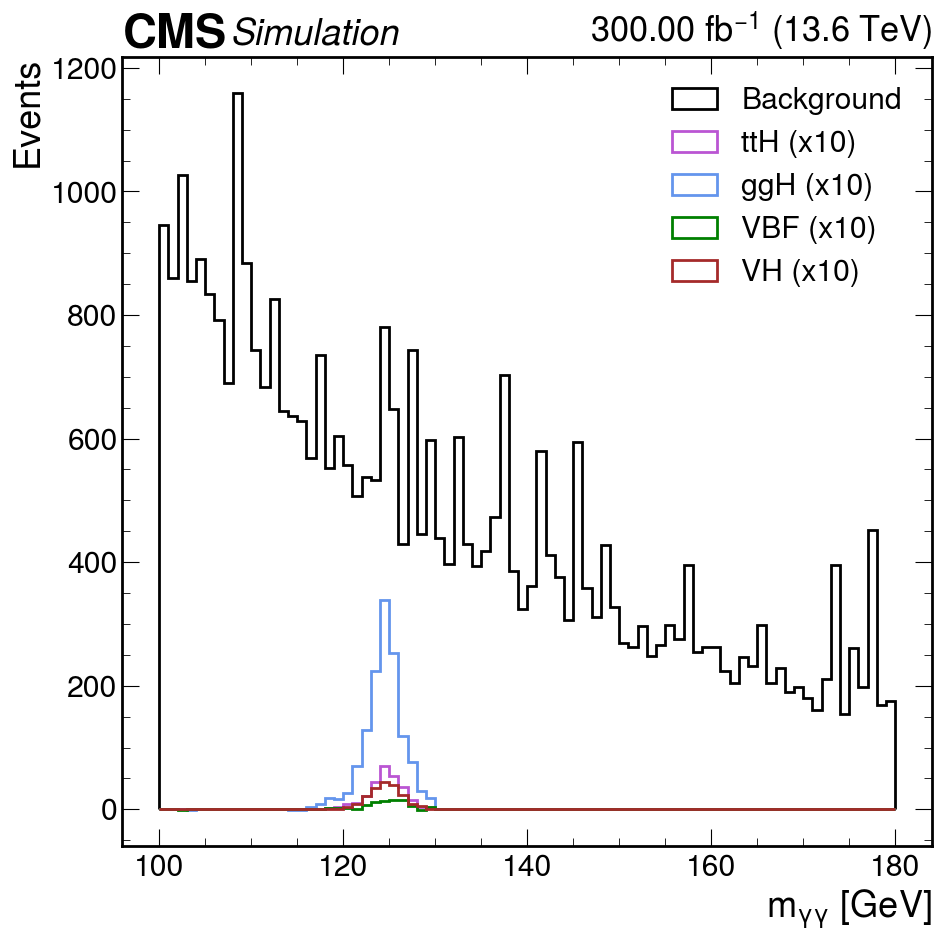
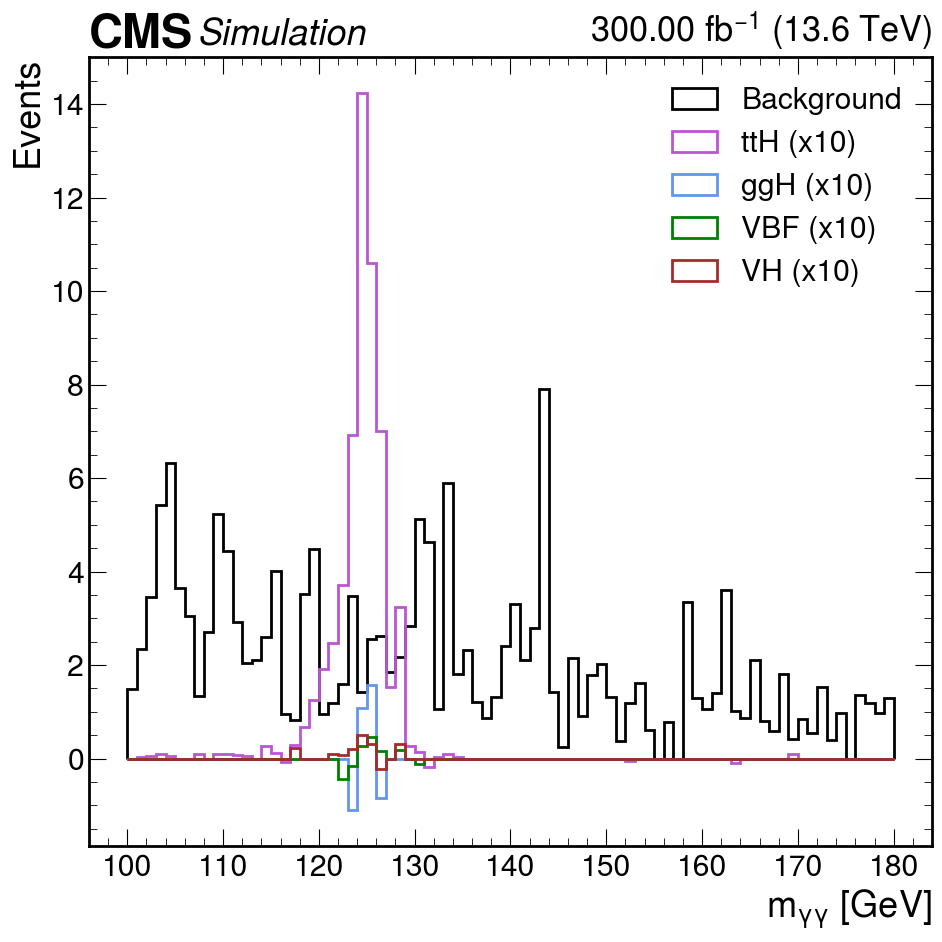
Fixed bug from last week. Added 5 categories and got NLL and Mass spectra for them.

diff --git a/simple_stat_analysis.py b/simple_stat_analysis.py
@@ -11,6 +11,7 @@ from utils import *
 # Constants
 total_lumi = 7.9804
 target_lumi = 300
+mass = 125
 
 # Processes to plot
 procs = {
@@ -22,8 +23,10 @@ procs = {
 }
 
 # Load dataframes
+
 dfs = {}
 for i, proc in enumerate(procs.keys()):
+    #if proc != "ttH": continue
     print(f" --> Loading process: {proc}")
     dfs[proc] = pd.read_parquet(f"{sample_path}/{proc}_processed_selected.parquet")
 
@@ -54,17 +57,19 @@ for i, proc in enumerate(procs.keys()):
     
     # Apply selection: separate ttH from backgrounds + other H production modes
     yield_before_sel = dfs[proc]['true_weight'].sum()
-    #mask =  dfs[proc]['HT'] > 10
+    #print("HT pre cuts:", len(dfs[proc]["HT"]))
     mask = dfs[proc]['n_jets'] >= 4
-    print("HT pre cuts:", len(dfs[proc]["HT"]))
+    mask = mask & (dfs[proc]['HT'] > 200)
+    mask = mask & (dfs[proc]['max_b_tag_score'] > 0.8)
+    mask = mask & (dfs[proc]['second_max_b_tag_score'] > 0.4)
+    #print("HT post cuts:", len(dfs[proc]["HT"][mask]))
     #mask = mask & dfs[proc]['minDeltaPhiJMET']<1
-    mask = mask & dfs[proc]['max_b_tag_score'] > 0.8
-    mask = mask & dfs[proc]['second_max_b_tag_score'] > 0.4
+    #mask = mask & dfs[proc]['delta_eta_jj']<4
     #mask = mask& dfs[proc]['j3_pt']>10
-    mask = mask & (dfs[proc]['j1_eta']<=1) & (dfs[proc]['j1_eta']>=-1)
+    #mask = mask & (dfs[proc]['j1_eta']<=1) & (dfs[proc]['j1_eta']>=-1)
     #mask = mask & dfs[proc]['delta_phi_gg']>0.9
     #mask = mask & dfs[proc]['n_leptons'] >= 1
-    #mask = mask & dfs[proc]['Muo0_pt']>10
+    #exit(0)
     
     dfs[proc] = dfs[proc][mask]
     yield_after_sel = dfs[proc]['true_weight'].sum()
@@ -74,7 +79,16 @@ for i, proc in enumerate(procs.keys()):
 
     # Categorise events: separate regions of high EFT enhancement vs low EFT enhancement
     # e.g. number of leptons
-    dfs[proc]['category'] = np.array(dfs[proc]['n_leptons'] >= 1, dtype='int')
+    conditions = [
+    (dfs[proc]['pt/mass']*mass < 60),      # Category 0: low p_T
+    (dfs[proc]['pt/mass']*mass >= 60) & (dfs[proc]['pt/mass']*mass < 120),  # Category 1: medium p_T
+    (dfs[proc]['pt/mass']*mass >= 120) & (dfs[proc]['pt/mass']*mass < 200), # Category 2: higher p_T
+    (dfs[proc]['pt/mass']*mass >= 200) & (dfs[proc]['pt/mass']*mass < 300), # Category 3: even higher p_T
+    (dfs[proc]['pt/mass']*mass >= 300)     # Category 4: highest p_T
+    ]
+    #dfs[proc]['category'] = np.array(dfs[proc]['n_leptons'] >= 1, dtype='int')
+    dfs[proc]['category'] = np.select(conditions, [0, 1, 2, 3, 4])
+    print(np.select(conditions, [0,1,2,3,4]))
     
 # Extract different cat integers
 cats_unique = []
@@ -82,7 +96,7 @@ for proc in procs.keys():
     for cat in np.unique(dfs[proc]['category']):
         if cat not in cats_unique:
             cats_unique.append(cat)
-    
+print("Categories", np.unique(dfs[proc]['category']))
 # ~~~~~~~~~~~~~~~~~~~~~~~~~~~~~~~~~~~~~~~~~~~~~~~~~~~~~~~~~~~~~~~~~~~~~~~~~~~~~~~~~~
 # Plot diphoton mass distribution in each category
 fig, ax = plt.subplots(1,1)
